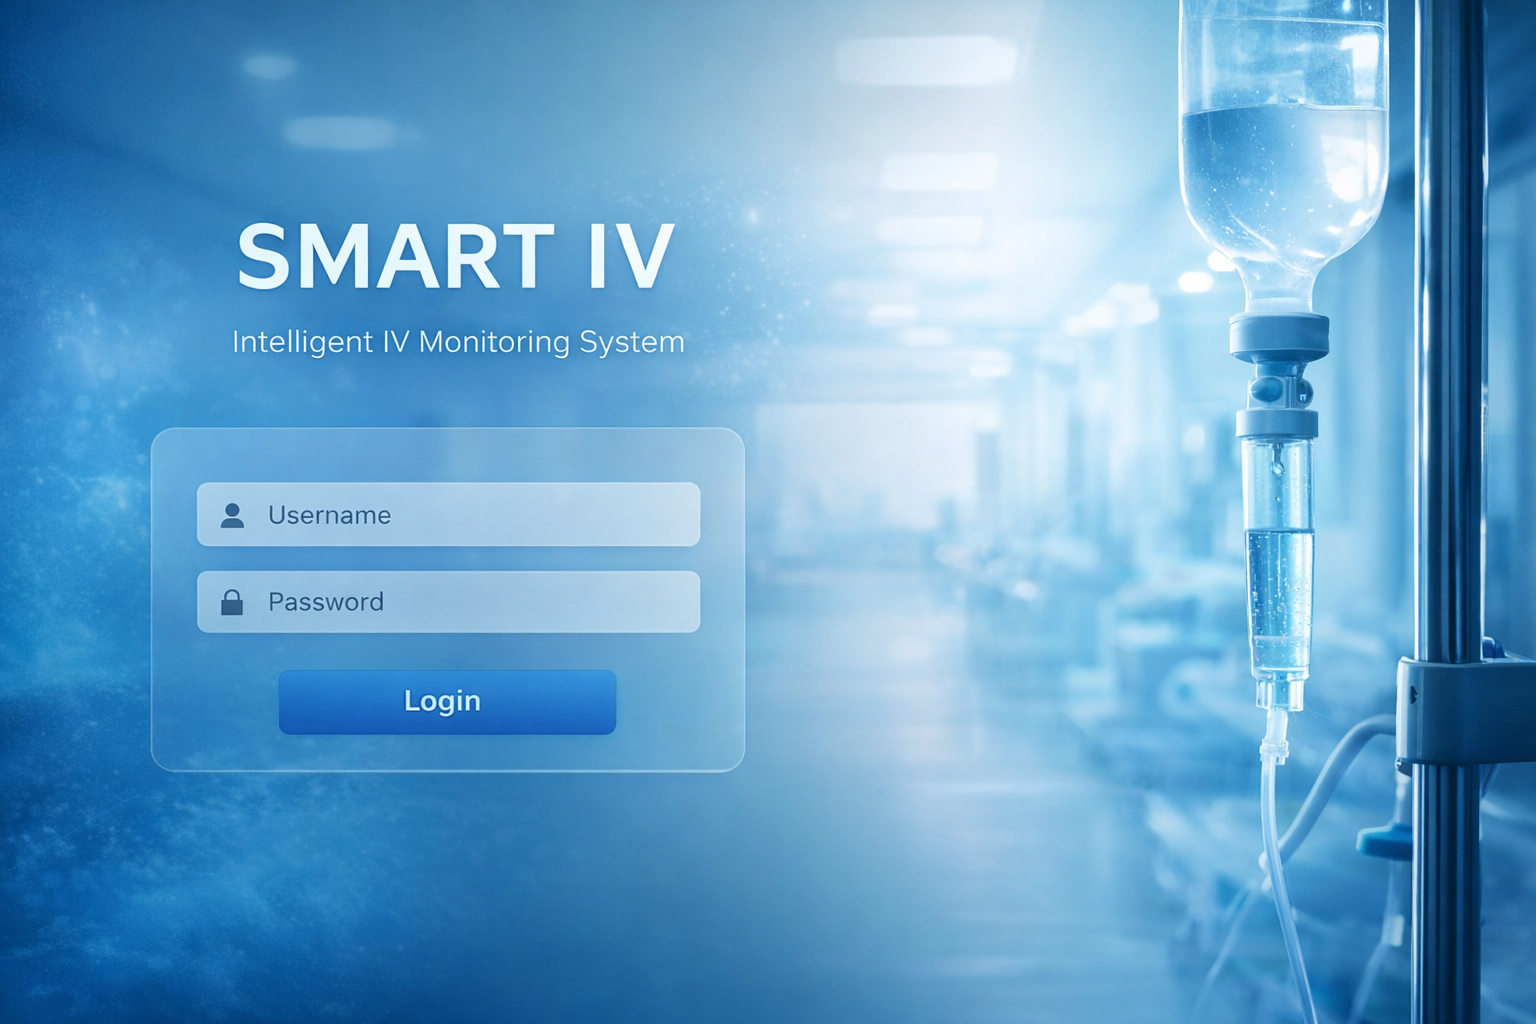
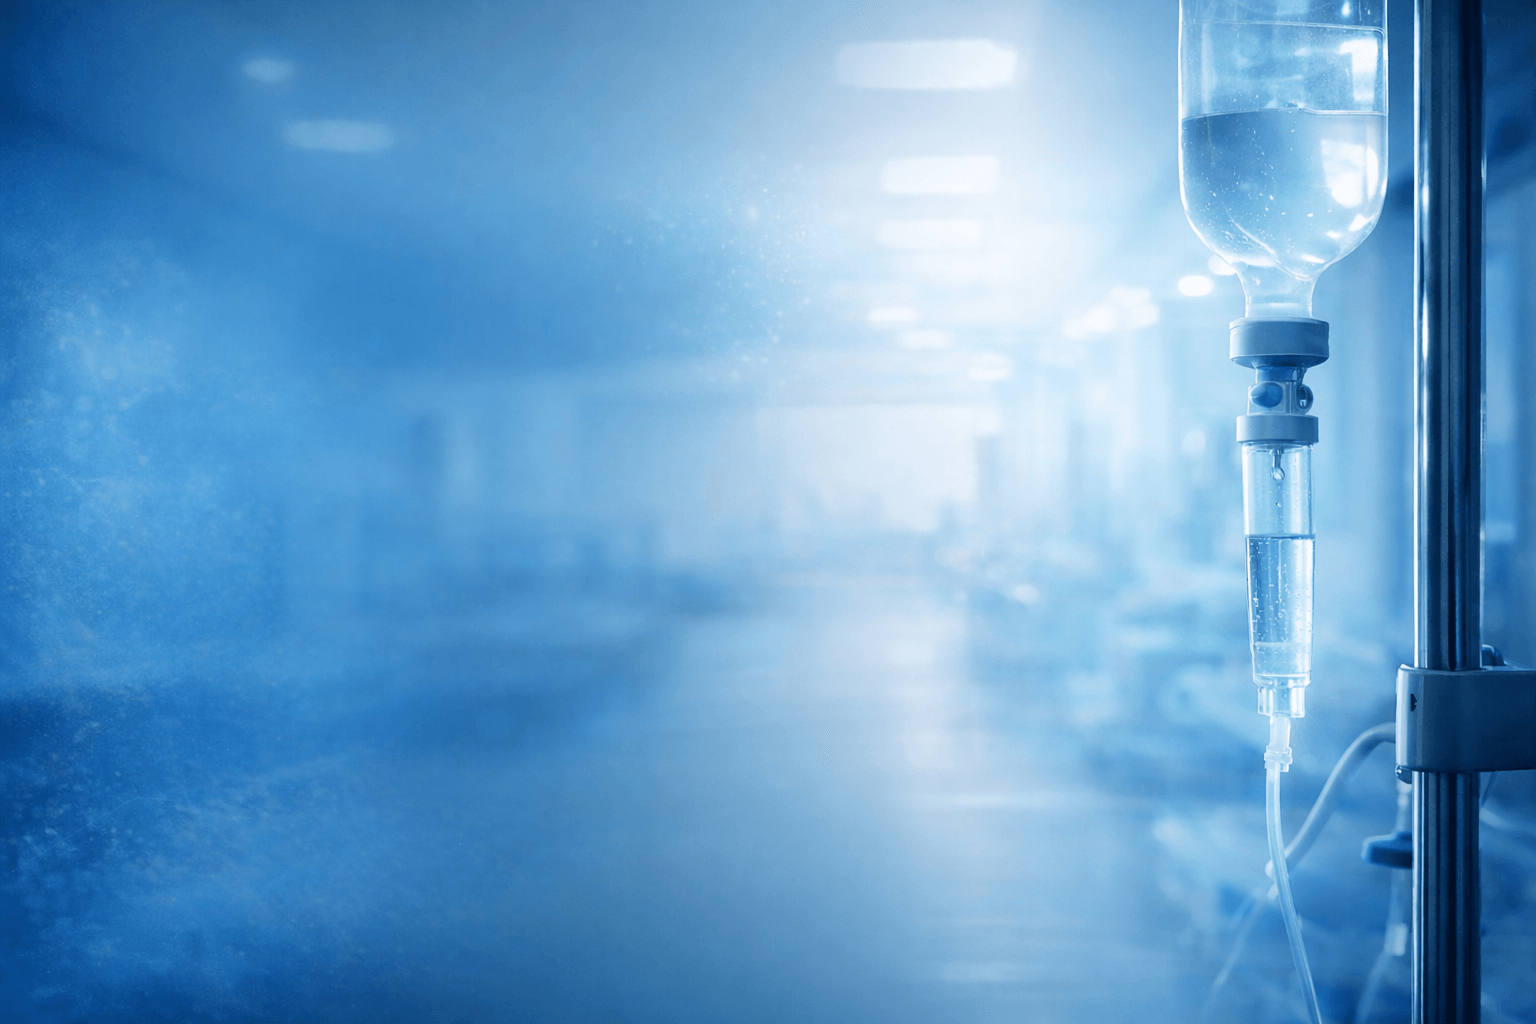
Update logs fix

diff --git a/public/style.css b/public/style.css
@@ -89,8 +89,8 @@ button {
   display: flex;
   justify-content: center;
   align-items: center;
-  position: relative;
 }
+
 
 /* طبقة زرقاء خفيفة حتى ندمج الصورة */
 .login-body::before {
